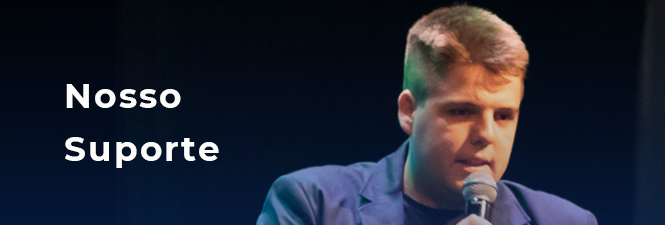
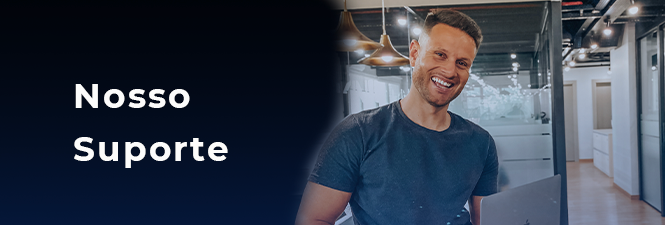
Update photos

diff --git a/index.html b/index.html
@@ -7,6 +7,20 @@
     <title>Consultoria Vicenzo Marroni</title>
     <meta name="title" content="Consultoria Vicenzo Marroni">
     <meta name="description" content="A forma mais simples e estratégica de escalar seu negócio dentro do mercado digital">
+    <!-- Open Graph / Facebook -->
+    <meta property="og:type" content="website">
+    <meta property="og:url" content="https://vicenzomarroni.com.br/">
+    <meta property="og:title" content="A forma mais simples e estratégica de escalar seu negócio dentro do mercado digital">
+    <meta property="og:description" content="A forma mais simples e estratégica de escalar seu negócio dentro do mercado digital">
+    <meta property="og:image" content="https://vicenzomarroni.com.br/src/photo.jpg">
+
+    <!-- Twitter -->
+    <meta property="twitter:card" content="summary_large_image">
+    <meta property="twitter:url" content="https://vicenzomarroni.com.br/">
+    <meta property="twitter:title" content="A forma mais simples e estratégica de escalar seu negócio dentro do mercado digital">
+    <meta property="twitter:description" content="A forma mais simples e estratégica de escalar seu negócio dentro do mercado digital">
+    <meta property="twitter:image" content="https://vicenzomarroni.com.br/src/photo.jpg">
+        
     <title>Consultoria Vicenzo Marroni</title>
     <!-- Meta Pixel Code -->
     <script>
@@ -34,7 +48,7 @@
             <img src="./src/vicenzo-logo.png" alt="logo Mateus Madeira" class="logo" id="logo" />
             <h1>A forma mais simples e estratégica de escalar seu negócio dentro do mercado digital</h1>
             <p>Aprenda a metodologia que ja fez nossas empresas faturarem mais de 1.5 milhões com a internet </p>
-            <a href="https://wa.me/555499009687">Quero me aplicar para consultoria </a>
+            <a href="https://wa.me/555499009687" target="_blank">Quero me aplicar para consultoria </a>
         </section>
         <link rel="stylesheet" href="styles/consult/fears.css" />
         <section class="fears">
@@ -108,7 +122,7 @@
                     <p>Nada disso acima, funciona sem gestão, aqui é onde está o segredo, como gerenciar um time e uma empresa com uma gestão estratégica.</p>
                 </div>
             </div>
-            <a href="https://wa.me/555499009687" class="btn">Quero me aplicar para consultoria </a>
+            <a href="https://wa.me/555499009687" class="btn" target="_blank">Quero me aplicar para consultoria </a>
         </section>
 
         <link rel="stylesheet" href="styles/consult/whois.css" />
@@ -119,8 +133,8 @@
                 <h4 class="whois_bold">Sou Gestor de Marketing e Resultado</h4>
                 <p> desde 2018, quando tomei a decisão de construir um negócio inovador e diferente do que existia no mercado na época e com isso fundamos a Mad Digital, onde todos os meses fizemos múltiplos 6 dígitos e atendemos mais de 500 negócios. </p><br />
             </div>
-            <img src="./src/photo.png" alt="Vicenzo Marroni" />
-            <a href="https://wa.me/555499009687">Quero me aplicar para consultoria </a>
+            <img src="./src/photo.jpg" alt="Vicenzo Marroni" />
+            <a href="https://wa.me/555499009687" target="_blank">Quero me aplicar para consultoria </a>
         </section>
         </main>
 </body>

diff --git a/links.html b/links.html
@@ -29,7 +29,7 @@
     <section>
         <h1>Vicenzo Marroni</h1>
         <p>Escolha o que mais se encaixa com sua necessidade:</p>
-        <a href="https://www.madcompany.com.br/" target="_blank">
+        <a href="https://www.maddigital.com.br/" target="_blank">
             <img src="src/site.png" alt="Mad Digital" />
         </a>
         <a href="https://vicenzomarroni.com.br/index.html" target="_blank">

diff --git a/styles/consult/whois.css b/styles/consult/whois.css
@@ -23,6 +23,8 @@
 .whois > img {
     max-width: 800px;
     margin-bottom: 60px;
+    border-radius: 10px;
+    box-shadow: rgba(0, 0, 0, 0.35) 0px 5px 15px;
 }
 
 .whois > a {
